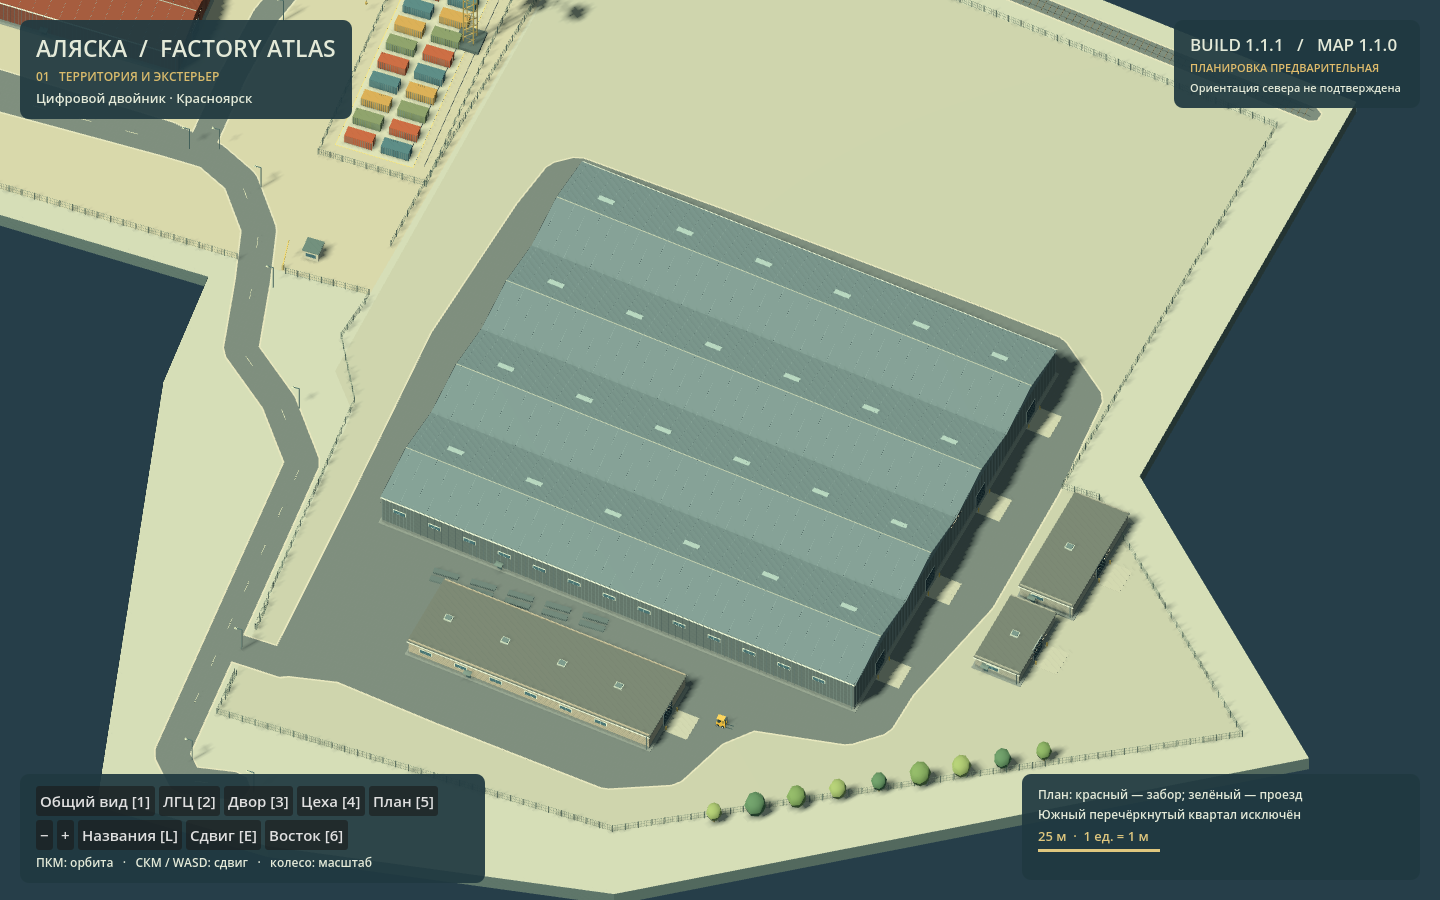
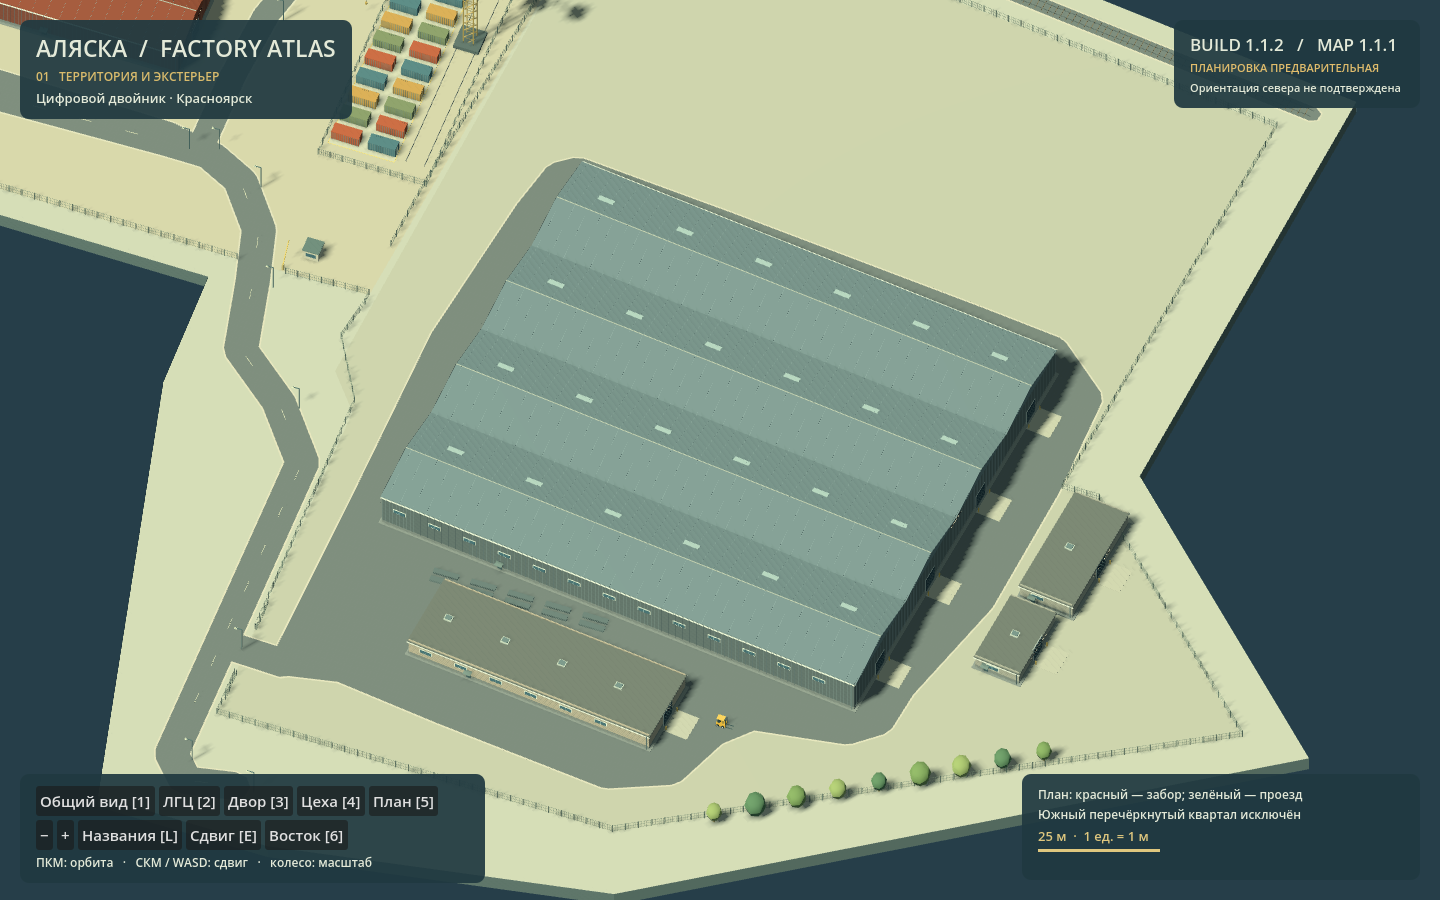
Keep traced roads and crane travel clear of storage yards with geometry checks

Changed region(s): [[0.2188, 0.0, 0.3438, 0.1867]]

diff --git a/tools/check_site.py b/tools/check_site.py
@@ -51,6 +51,16 @@ assert not road_conflicts,('paved roads intersect buildings',road_conflicts)
 for road in site['roads']:
     for excluded in site['excluded_areas']:
         assert not any(inside(point,excluded['points']) for point in road['points']),(road['id'],'road enters excluded parcel')
+for zone in site['zones']:
+    poly=footprint(zone)
+    for road in site['roads']:
+        for a,b in zip(road['points'],road['points'][1:]):
+            distance=min(segment_distance(a,b,u,v) for u,v in edges(poly))
+            assert not inside(a,poly) and not inside(b,poly) and distance>=road['width']/2-0.1,('storage yard covers road',zone['name'],road['id'])
+    for b,pb in bodies:assert not overlap(poly,pb),('storage yard inside building',zone['name'],b['id'])
+    tower=site['tower_crane']
+    distance=min(segment_distance(tower['rail_start'],tower['rail_end'],a,b) for a,b in edges(poly))
+    assert distance>=tower['clearance_width']/2-0.1,('stock blocks tower crane travel',zone['name'])
 fence_conflicts=[]
 for index,fence in enumerate(site['fences']+site.get('open_gate_leaves',[])):
     for a,b in zip(fence,fence[1:]):
@@ -66,4 +76,4 @@ by_id={b['id']:b for b in site['buildings']}
 assert abs(by_id['shop1']['rotation'])==90,'Shop 1 must follow the north/south building axis'
 assert by_id['black']['w']>2*by_id['lgc']['w'],'Black workshop scale must match the large eastern map footprint'
 assert not ids.intersection(['garage1','garage2','mini','parts','axes']),'Unsupported southern standalone buildings must not return'
-print(f"PASS {len(ids)} rotated footprints; no building/road/fence collisions; exclusion clear; two-source calibration; shop-1 orientation and eastern footprint scale.")
+print(f"PASS {len(ids)} rotated footprints; no building/road/fence/stock collisions; crane travel clear; exclusion clear; two-source calibration; shop-1 orientation and eastern footprint scale.")

diff --git a/docs/ACCEPTANCE.md b/docs/ACCEPTANCE.md
@@ -1,7 +1,8 @@
-# BUILD 1.1.1 / MAP 1.1.0 — проверка исправленной планировки
+# BUILD 1.1.2 / MAP 1.1.1 — проверка исправленной планировки
 
 ## Что исправлено относительно 1.0.0
 
+- Складские зоны освобождены от пересечений с дорожным полотном; контейнеры стоят вне коридора рельсового крана. Это проверяется отдельно от контуров зданий.
 - Обработан смысл последней разметки владельца: красные линии — заборы; зелёные — проезды; стрелки не являются объектами сцены.
 - Удалена придуманная прямоугольная сетка дорог и неверный общий периметр. Теперь это оцифрованные полилинии с поворотами и раздельными границами участков.
 - Цех 1 ориентирован с севера на юг, а не вдоль цеха 2. Цех 2, малярка и офис 2 собраны в вытянутый составной объём с плоскими кровлями.
@@ -29,7 +30,7 @@
 
 ## Проверки
 
-`tools/validate.sh`: Godot 4.4.1 import + запуск сцены на 30 кадров + независимые проверки нормалей кровли, метрических размеров и ортогональности повёрнутых деталей; проверка stdout/stderr даже при нулевом коде выхода. `tools/check_site.py`: 16 повёрнутых контуров, отсутствие пересечений зданий/дорог и перекрытия проездов заборами, отсутствие объектов и дорог на исключённом участке, согласование двух метрических опор и контроль ориентации цеха 1 / размера восточного корпуса. Проверки не отключались ради прохождения.
+`tools/validate.sh`: Godot 4.4.1 import + запуск сцены на 30 кадров + независимые проверки нормалей кровли, метрических размеров и ортогональности повёрнутых деталей; проверка stdout/stderr даже при нулевом коде выхода. `tools/check_site.py`: 16 повёрнутых контуров, отсутствие пересечений зданий/дорог и перекрытия проездов заборами и складскими площадками; проверка коридора рельсового крана, отсутствие объектов и дорог на исключённом участке, согласование двух метрических опор и контроль ориентации цеха 1 / размера восточного корпуса. Проверки не отключались ради прохождения.
 
 `tools/capture.cjs`: Chromium/WebGL 2; проверка BUILD/MAP, настоящий выбор ЛГЦ лучом мыши, обратимый сдвиг на метр, шесть ракурсов и два состояния интерфейса. Журналы и SHA-256 экспортированных артефактов лежат рядом со скриншотами.
 

diff --git a/docs/MEASUREMENTS.md b/docs/MEASUREMENTS.md
@@ -1,4 +1,4 @@
-# MAP 1.1.0 — привязка и достоверность
+# MAP 1.1.1 — привязка и достоверность
 
 Одна единица Godot = один метр. Ваша последняя разметка имеет приоритет над прежней приблизительной расстановкой: **красное — ограждения; зелёное — дороги; стрелки — указания на объекты, не геометрия; перечёркнутый южный квартал не моделируется**.
 
@@ -48,3 +48,5 @@
 ## Что нужно подтвердить обмерами
 
 Углы стен и высоты; точное устройство кровель/фасадов чёрного цеха и обоих основных цехов; ширины и радиусы проездов; места ворот; параметры обоих кранов и путей; назначение малых восточных корпусов; фактические складские зоны и номенклатура западной площадки; истинный север. Все эти неизвестные остаются оценочными, а не выданы за измеренные значения. Интерьеров нет.
+
+Складские зоны имеют оценочные границы и отдельные source/confidence. Площадка рам, очередь пескоструя и клиентская выдача отодвинуты от дорожного полотна. Контейнерный ряд смещён к западной стороне своего двора, вне шестиметрового коридора рельсового крана. Количество показанных единиц иллюстративное, а не фактический складской остаток.

diff --git a/README.md b/README.md
@@ -1,6 +1,6 @@
 # Alaska Factory — exterior atlas
 
-Godot **4.4.1**, GL Compatibility, Web. **BUILD 1.1.1 / MAP 1.1.0**.
+Godot **4.4.1**, GL Compatibility, Web. **BUILD 1.1.2 / MAP 1.1.1**.
 One world unit = one metre. Exterior only. Map-derived anchors and provisional estimates are kept separate; this is not a surveyed digital twin.
 
 ## Develop
